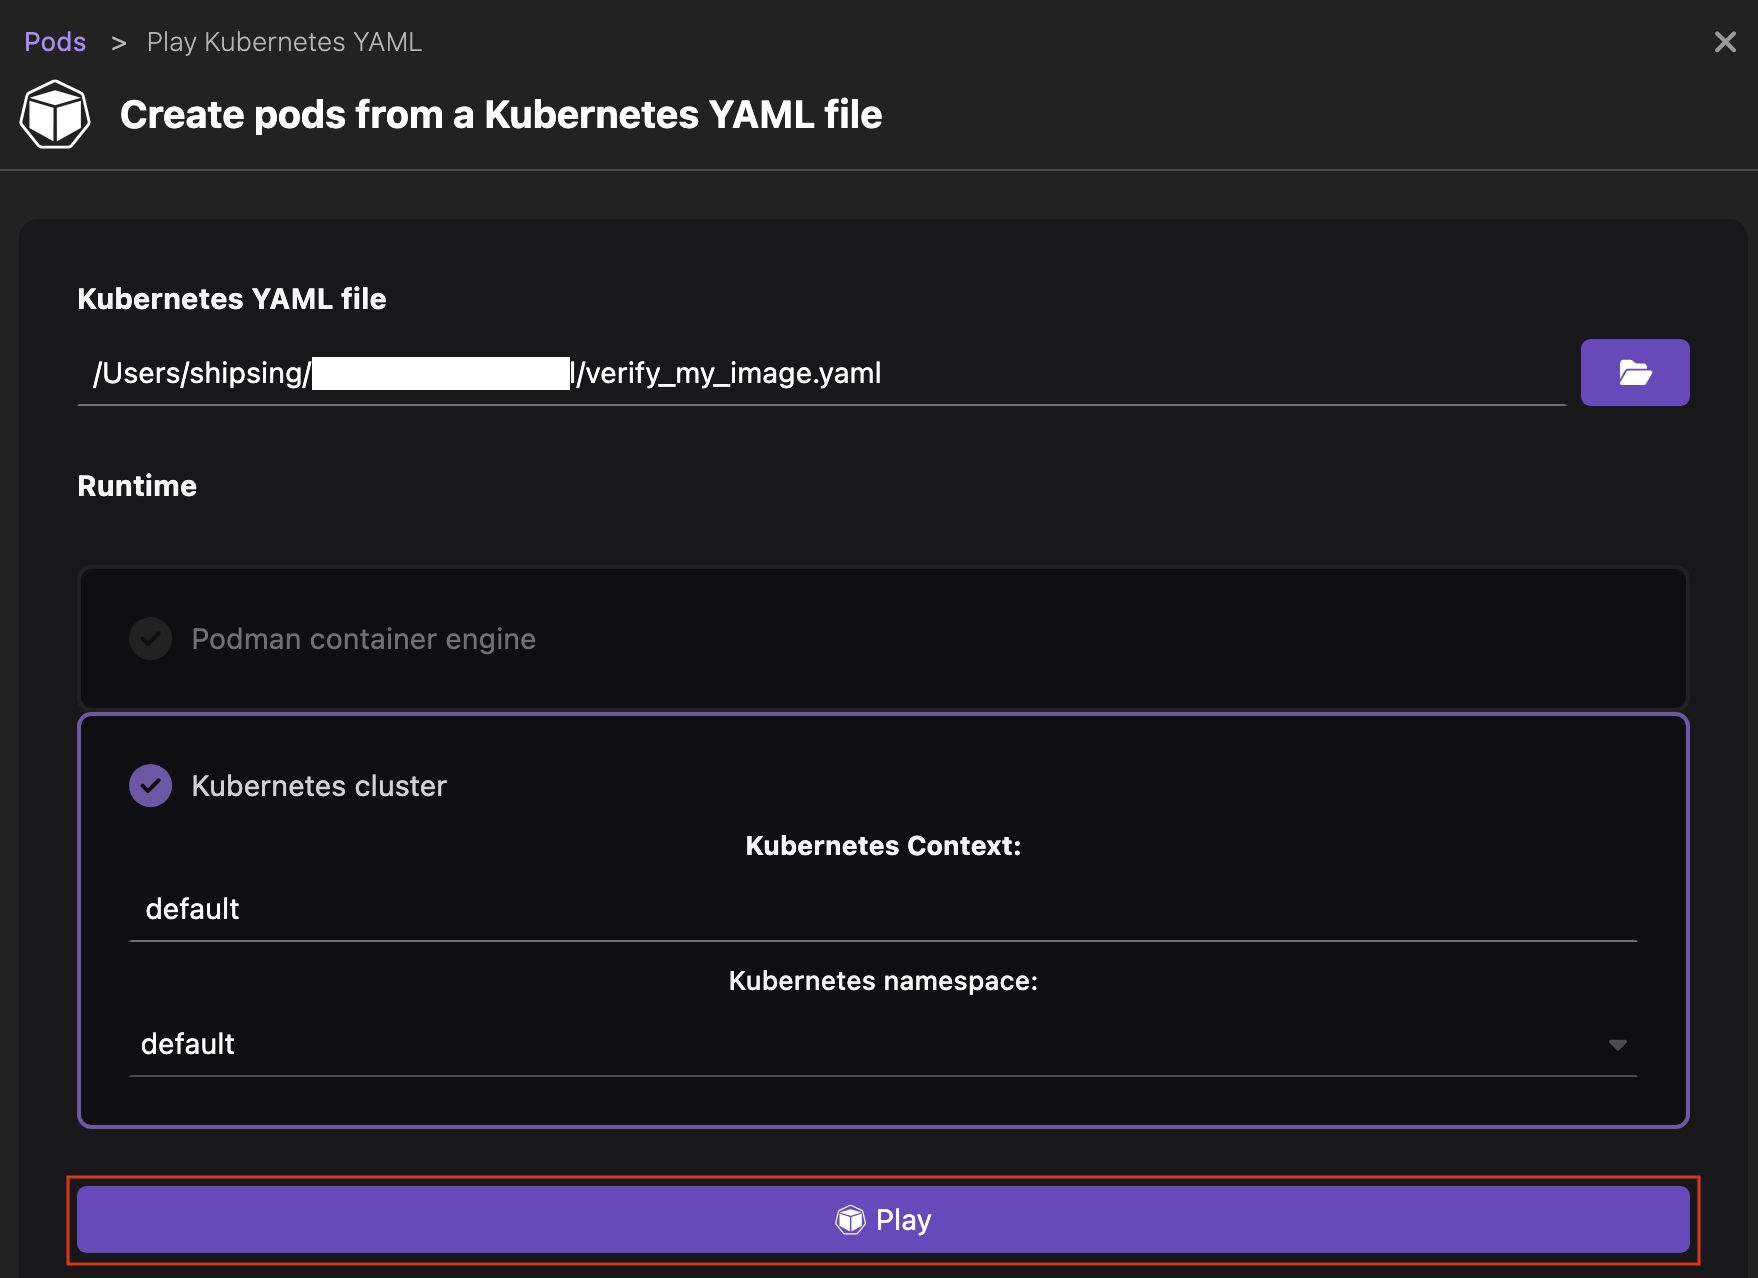
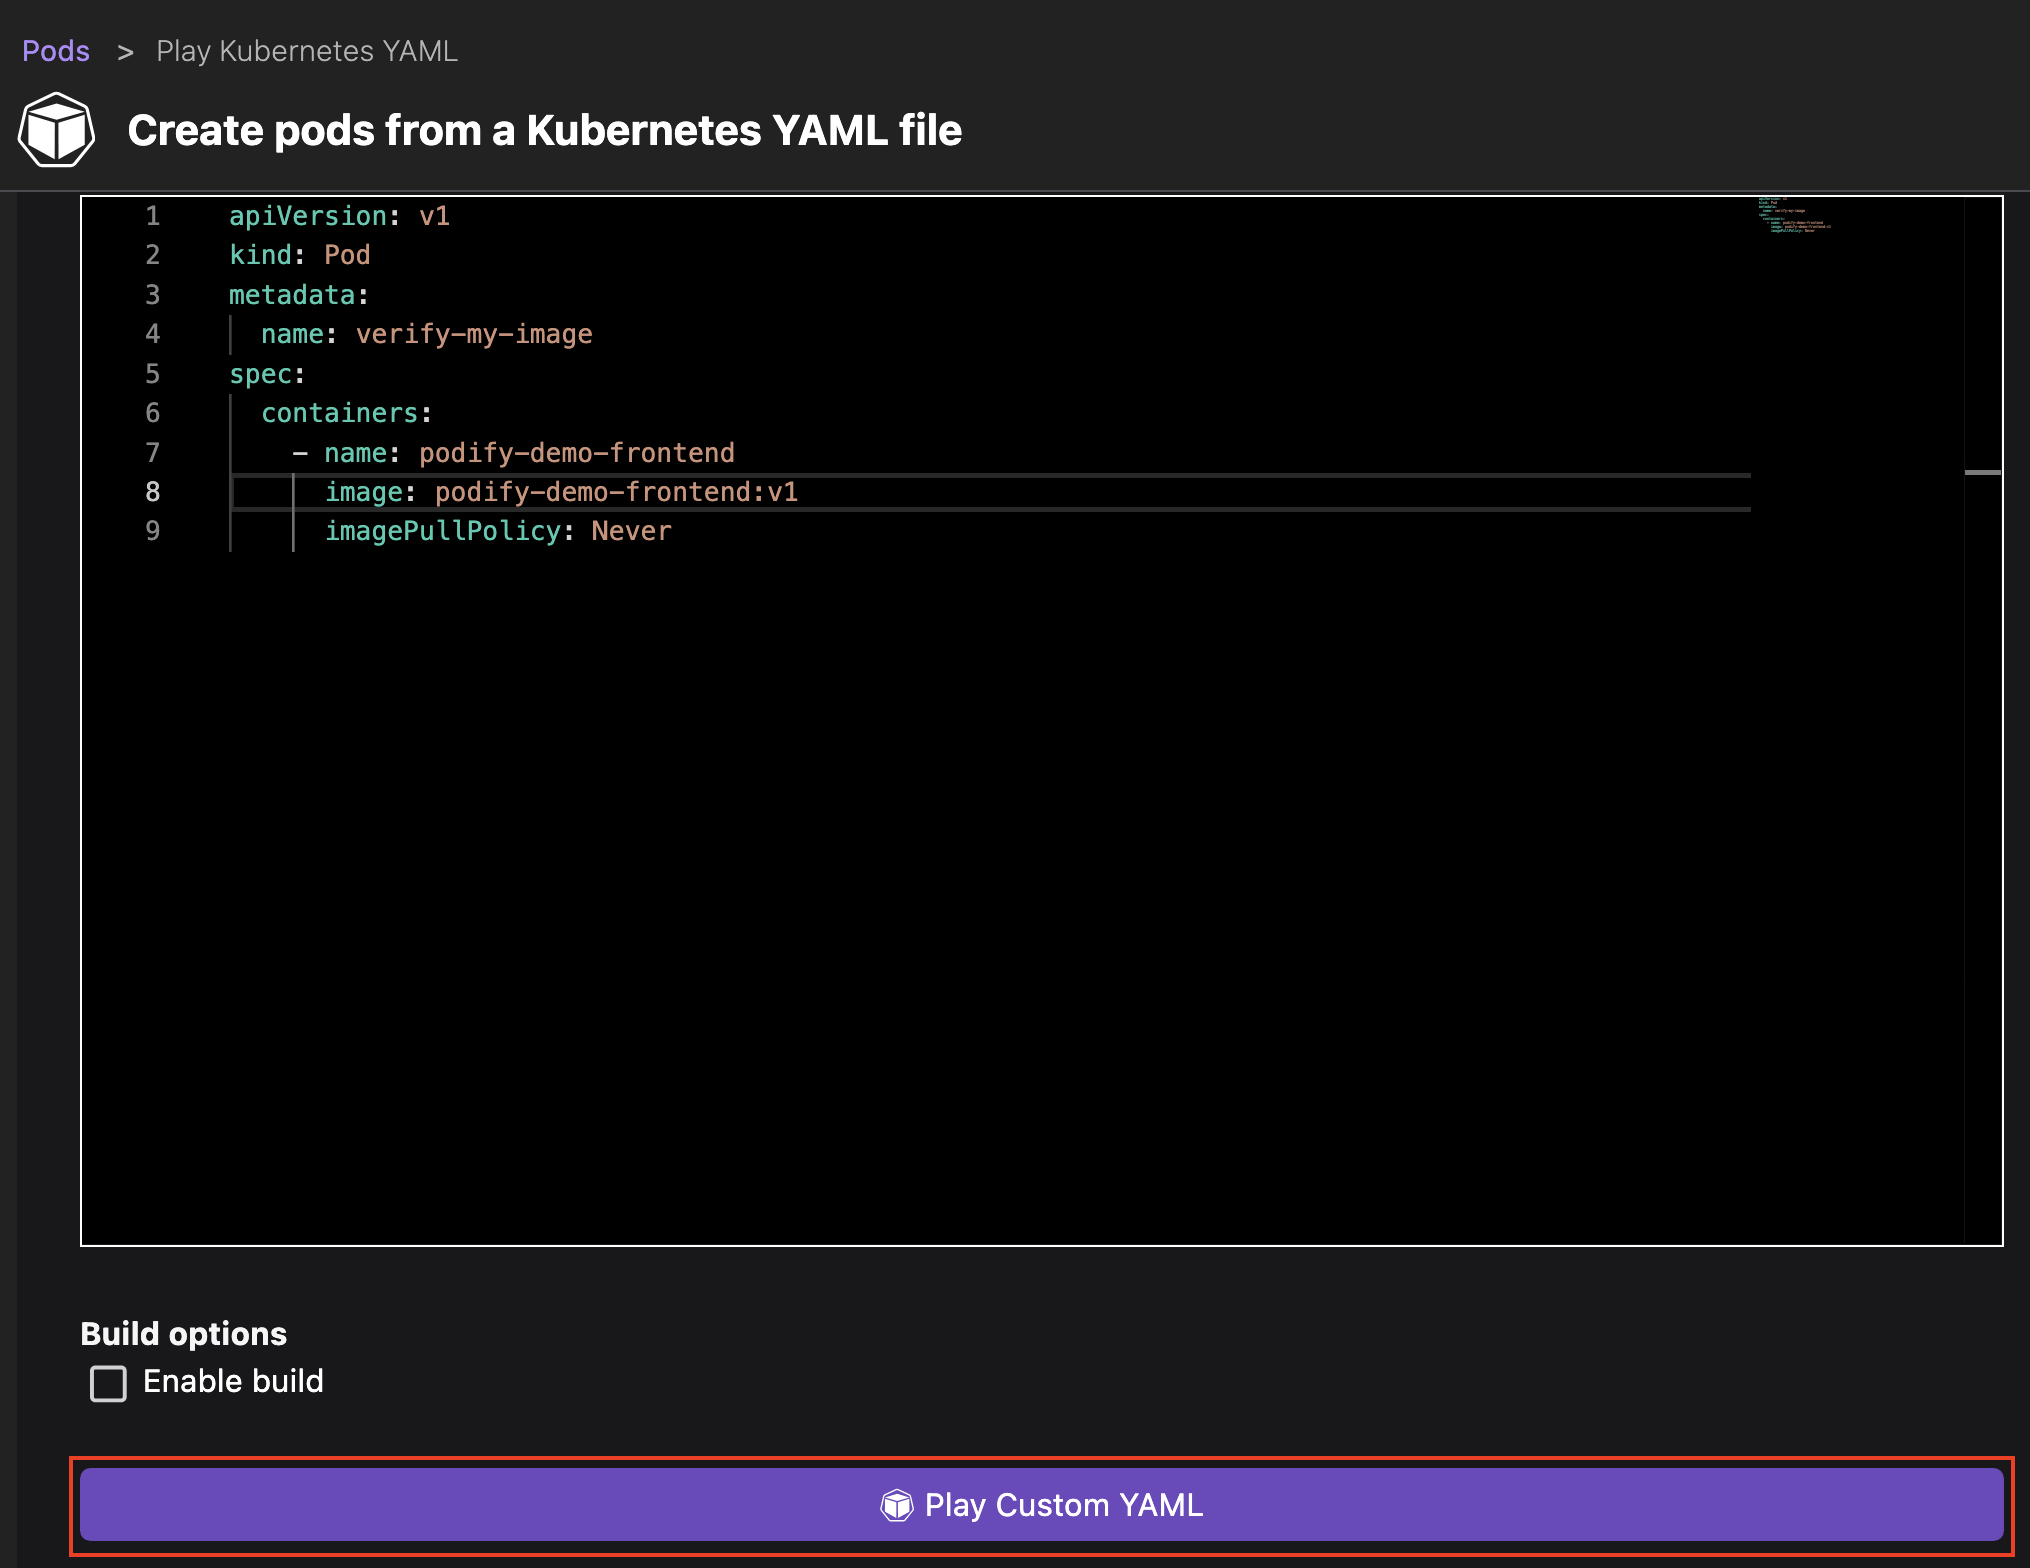
docs: updated the sections referencing the Podman Kube Play feature

diff --git a/website/docs/kind/pushing-an-image-to-kind.md b/website/docs/kind/pushing-an-image-to-kind.md
@@ -33,29 +33,36 @@ With Podman Desktop, you can push an image to your local Kind-powered Kubernetes
 Kind does not enable you to list loaded images.
 Therefore, create a pod that uses the loaded image.
 
-1. Create a `verify_my_image.yaml` Kubernetes YAML file on your workstation.
-   Replace the placeholders:
-   - Pod `name` and container `name` values must consist of lowercase alphanumeric characters, '-', or '.', and must start and end with an alphanumeric character.
-   - Container `image` value is the image you pushed. You can click the name of the image to check its name and tag.
-
-   ```yaml
-   apiVersion: v1
-   kind: Pod
-   metadata:
-     name: <verify-my-image>
-   spec:
-     containers:
-       - name: <my-image>
-         image: <my_image>:<my_tag>
-         imagePullPolicy: Never
-   ```
-
 1. Go to **Pods** from the left navigation pane.
-1. Click **Play Kubernetes YAML** and provide the following details:
-   - **Kubernetes YAML file**: select your `verify_my_image.yaml` file.
-   - Set **Runtime** to **Kubernetes cluster**.
-1. Click **Play**.
-   ![play a Kubernetes YAML](img/create-pod-from-kube-yaml.png)
+1. Click **Podman Kube Play**, and provide the following details:
+   - **Kubernetes YAML file**: Click `Create file from scratch`, and use the following code for file creation:
+
+     ```yaml
+     apiVersion: v1
+     kind: Pod
+     metadata:
+     name: <verify-my-image>
+     spec:
+     containers:
+        - name: <my-image>
+           image: <my_image>:<my_tag>
+           imagePullPolicy: Never
+     ```
+
+     Ensure to replace the placeholders:
+     - Pod `name` and container `name` values must consist of lowercase alphanumeric characters, '-', or '.', and must start and end with an alphanumeric character.
+     - Container `image` value is the image you pushed. You can click the name of the image to check its name and tag.
+
+   - Optional: Select the checkbox to enable a build process inside your pod.
+
+     :::note
+
+     Building inside a pod helps you to isolate the build environment completely and enhance security by containing vulnerabilities or malicious code within the isolated environment.
+
+     :::
+
+1. Click **Play Custom YAML**.
+   ![Play Custom YAML button](img/create-pod-from-kube-yaml.png)
 1. Click **Done**.
 1. Go to **Kubernetes > Pods**, and view the created pod `verify-my-image`. The pod **STATUS** is **RUNNING**.
    ![play a Kubernetes YAML](img/verify-my-image-pod-running.png)

diff --git a/website/docs/lima/pushing-an-image-to-lima.md b/website/docs/lima/pushing-an-image-to-lima.md
@@ -34,30 +34,36 @@ $ LIMA_INSTANCE=<name> lima sudo crictl images
 
 You can also create a pod that uses the loaded image:
 
-1. Create a `verify_my_image.yaml` Kubernetes YAML file on your workstation.
-   Replace the placeholders:
-   - Pod `name` and container `name` values must consist of lowercase alphanumeric characters, '-', or '.', and must start and end with an alphanumeric character.
-   - Container `image` value is the image you pushed. You can click the name of the image to check its name and tag.
-
-   ```yaml
-   apiVersion: v1
-   kind: Pod
-   metadata:
-     name: <verify-my-image>
-   spec:
-     containers:
-       - name: <my-image>
-         image: <my_image>:<my_tag>
-         imagePullPolicy: Never
-   ```
-
 1. Go to **Pods** from the left navigation pane.
-1. Click **Play Kubernetes YAML** and provide the following details:
-   - **Kubernetes YAML file**: select your `verify_my_image.yaml` file.
-   - Set **Runtime** to **Kubernetes cluster**.
+1. Click **Podman Kube Play**, and provide the following details:
+   - **Kubernetes YAML file**: Click `Create file from scratch`, and use the following code for file creation:
 
-1. Click **Play**.
-   ![play a Kubernetes YAML](img/create-pod-from-kube-yaml.png)
+     ```yaml
+     apiVersion: v1
+     kind: Pod
+     metadata:
+     name: <verify-my-image>
+     spec:
+     containers:
+        - name: <my-image>
+           image: <my_image>:<my_tag>
+           imagePullPolicy: Never
+     ```
+
+     Ensure to replace the placeholders:
+     - Pod `name` and container `name` values must consist of lowercase alphanumeric characters, '-', or '.', and must start and end with an alphanumeric character.
+     - Container `image` value is the image you pushed. You can click the name of the image to check its name and tag.
+
+   - Optional: Select the checkbox to enable a build process inside your pod.
+
+     :::note
+
+     Building inside a pod helps you to isolate the build environment completely and enhance security by containing vulnerabilities or malicious code within the isolated environment.
+
+     :::
+
+1. Click **Play Custom YAML**.
+   ![Play Custom YAML button](img/create-pod-from-kube-yaml.png)
 1. Click **Done**.
 1. Go to **Kubernetes > Pods**, and view the created pod `verify-my-image`. The pod **STATUS** is **RUNNING**.
    ![play a Kubernetes YAML](img/verify-my-image-pod-running.png)

diff --git a/website/docs/minikube/pushing-an-image-to-minikube.md b/website/docs/minikube/pushing-an-image-to-minikube.md
@@ -34,29 +34,36 @@ $ minikube image list
 
 You can also create a pod that uses the loaded image:
 
-1. Create a `verify_my_image.yaml` Kubernetes YAML file on your workstation.
-   Replace the placeholders:
-   - Pod `name` and container `name` values must consist of lowercase alphanumeric characters, '-', or '.', and must start and end with an alphanumeric character.
-   - Container `image` value is the image you pushed. You can click the name of the image to check its name and tag.
-
-   ```yaml
-   apiVersion: v1
-   kind: Pod
-   metadata:
-     name: <verify-my-image>
-   spec:
-     containers:
-       - name: <my-image>
-         image: <my_image>:<my_tag>
-         imagePullPolicy: Never
-   ```
-
 1. Go to **Pods** from the left navigation pane.
-1. Click **Play Kubernetes YAML** and provide the following details:
-   - **Kubernetes YAML file**: select your `verify_my_image.yaml` file.
-   - Set **Runtime** to **Kubernetes cluster**.
-1. Click **Play**.
-   ![play a Kubernetes YAML](img/create-pod-from-kube-yaml.png)
+1. Click **Podman Kube Play**, and provide the following details:
+   - **Kubernetes YAML file**: Click `Create file from scratch`, and use the following code for file creation:
+
+     ```yaml
+     apiVersion: v1
+     kind: Pod
+     metadata:
+     name: <verify-my-image>
+     spec:
+     containers:
+        - name: <my-image>
+           image: <my_image>:<my_tag>
+           imagePullPolicy: Never
+     ```
+
+     Ensure to replace the placeholders:
+     - Pod `name` and container `name` values must consist of lowercase alphanumeric characters, '-', or '.', and must start and end with an alphanumeric character.
+     - Container `image` value is the image you pushed. You can click the name of the image to check its name and tag.
+
+   - Optional: Select the checkbox to enable a build process inside your pod.
+
+     :::note
+
+     Building inside a pod helps you to isolate the build environment completely and enhance security by containing vulnerabilities or malicious code within the isolated environment.
+
+     :::
+
+1. Click **Play Custom YAML**.
+   ![Play Custom YAML button](img/create-pod-from-kube-yaml.png)
 1. Click **Done**.
 1. Go to **Kubernetes > Pods**, and view the created pod `verify-my-image`. The pod **STATUS** is **RUNNING**.
    ![play a Kubernetes YAML](img/verify-my-image-pod-running.png)

diff --git a/website/docs/kubernetes/port-forwarding.md b/website/docs/kubernetes/port-forwarding.md
@@ -41,11 +41,11 @@ spec:
 
 1. Create a Kubernetes pod:
    1. Go to the **Pods** component page.
-   1. Click **Play Kubernetes YAML**.
-      ![play kubernetes yaml](img/play-kubernetes-yaml.png)
+   1. Click **Podman Kube Play**.
+      ![Podman Kube Play button](img/podman-kube-play.png)
    1. Select a Kubernetes YAML file, such as `pod.yaml` from your local machine.
-   1. Set the **Runtime** field to `Kubernetes cluster`.
-      ![set runtime field](img/play-a-yaml-file.png)
+   1. Optional: Select the checkbox to enable a build process inside your pod.
+      ![play your YAML file](img/play-a-yaml-file.png)
    1. Click **Play** and then **Done**.
    1. Go to **Kubernetes > Pods** to view the created Kubernetes pod.
       ![view the newly created pod](img/new-kubernetes-pod.png)

diff --git a/website/tutorial/managing-your-application-resources.md b/website/tutorial/managing-your-application-resources.md
@@ -82,7 +82,7 @@ Based on your needs, perform any of the following actions after navigating to th
 ![pod actions](img/pods-actions.png)
 
 1. View the status of each container by hovering over it in the _CONTAINERS_ column. The status can be `Running`, `Created`, `Exited`, or `Waiting`.
-2. Create a pod from a Kubernetes YAML file using the **Play Kubernetes YAML** button.
+2. Create a pod from a Kubernetes YAML file using the **Podman Kube Play** button.
 3. Use the overflow menu to:
    - _Kubernetes action_: Generate and view configuration for a Kubernetes pod.
    - _Kubernetes action_: Deploy a pod to a Kubernetes cluster.
